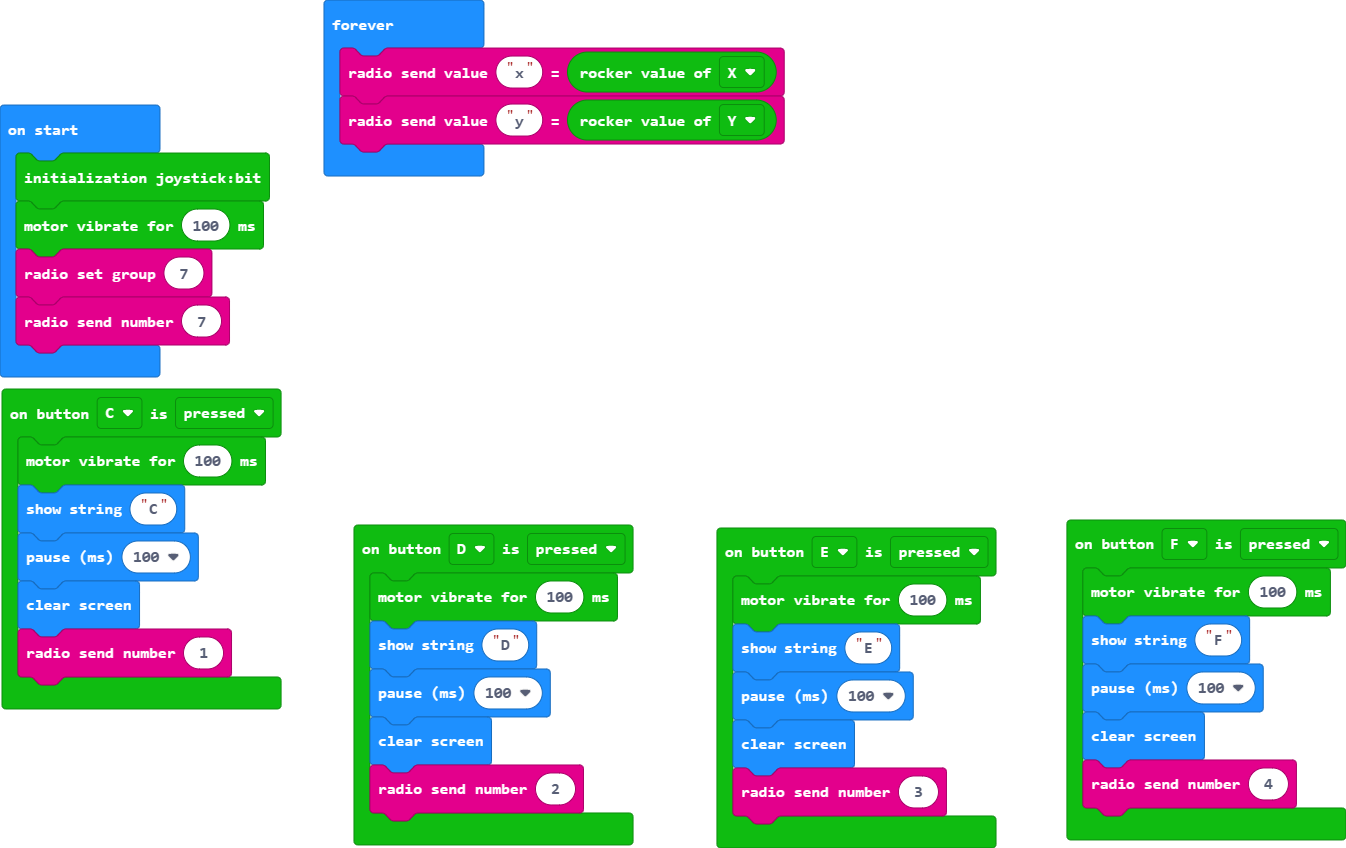
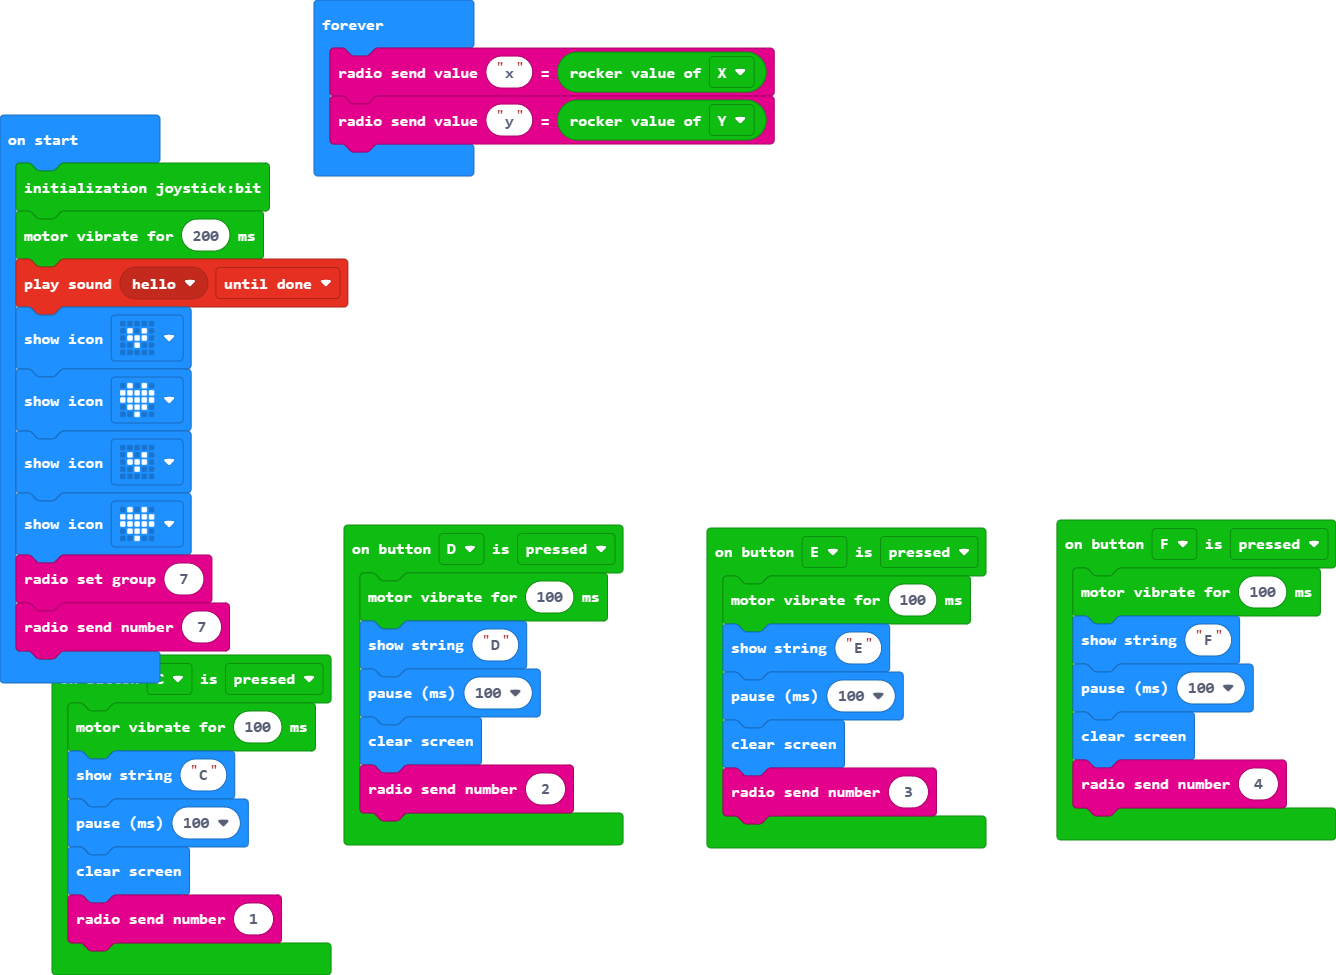
Update pxt.json, main.blocks, main.ts, main.py

diff --git a/main.ts b/main.ts
@@ -27,7 +27,12 @@ joystickbit.onButtonEvent(joystickbit.JoystickBitPin.P12, joystickbit.ButtonType
     radio.sendNumber(1)
 })
 joystickbit.initJoystickBit()
-joystickbit.Vibration_Motor(100)
+joystickbit.Vibration_Motor(200)
+music.playSoundEffect(music.builtinSoundEffect(soundExpression.hello), SoundExpressionPlayMode.UntilDone)
+basic.showIcon(IconNames.SmallHeart)
+basic.showIcon(IconNames.Heart)
+basic.showIcon(IconNames.SmallHeart)
+basic.showIcon(IconNames.Heart)
 radio.setGroup(7)
 radio.sendNumber(7)
 basic.forever(function () {

diff --git a/main.py b/main.py
@@ -1,0 +1,49 @@
+def my_function():
+    joystickbit.Vibration_Motor(100)
+    basic.show_string("E")
+    basic.pause(100)
+    basic.clear_screen()
+    radio.send_number(3)
+joystickbit.on_button_event(joystickbit.JoystickBitPin.P14,
+    joystickbit.ButtonType.DOWN,
+    my_function)
+
+def my_function2():
+    joystickbit.Vibration_Motor(100)
+    basic.show_string("F")
+    basic.pause(100)
+    basic.clear_screen()
+    radio.send_number(4)
+joystickbit.on_button_event(joystickbit.JoystickBitPin.P15,
+    joystickbit.ButtonType.DOWN,
+    my_function2)
+
+def my_function3():
+    joystickbit.Vibration_Motor(100)
+    basic.show_string("D")
+    basic.pause(100)
+    basic.clear_screen()
+    radio.send_number(2)
+joystickbit.on_button_event(joystickbit.JoystickBitPin.P13,
+    joystickbit.ButtonType.DOWN,
+    my_function3)
+
+def my_function4():
+    joystickbit.Vibration_Motor(100)
+    basic.show_string("C")
+    basic.pause(100)
+    basic.clear_screen()
+    radio.send_number(1)
+joystickbit.on_button_event(joystickbit.JoystickBitPin.P12,
+    joystickbit.ButtonType.DOWN,
+    my_function4)
+
+joystickbit.init_joystick_bit()
+joystickbit.Vibration_Motor(100)
+radio.set_group(7)
+radio.send_number(7)
+
+def on_forever():
+    radio.send_value("x", joystickbit.get_rocker_value(joystickbit.rockerType.X))
+    radio.send_value("y", joystickbit.get_rocker_value(joystickbit.rockerType.Y))
+basic.forever(on_forever)
